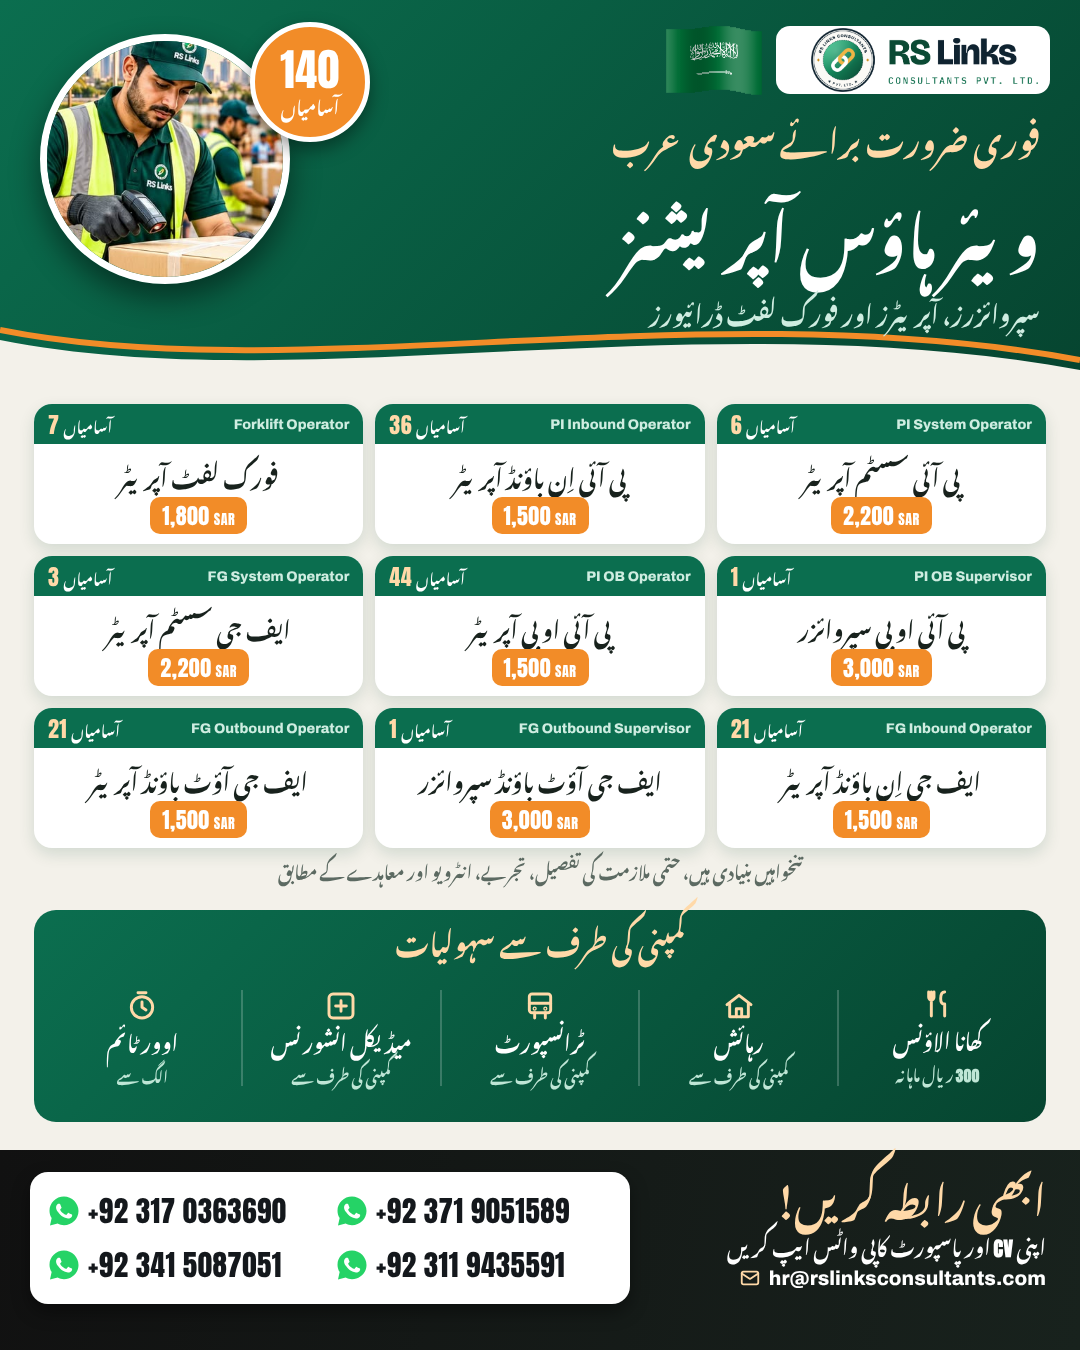
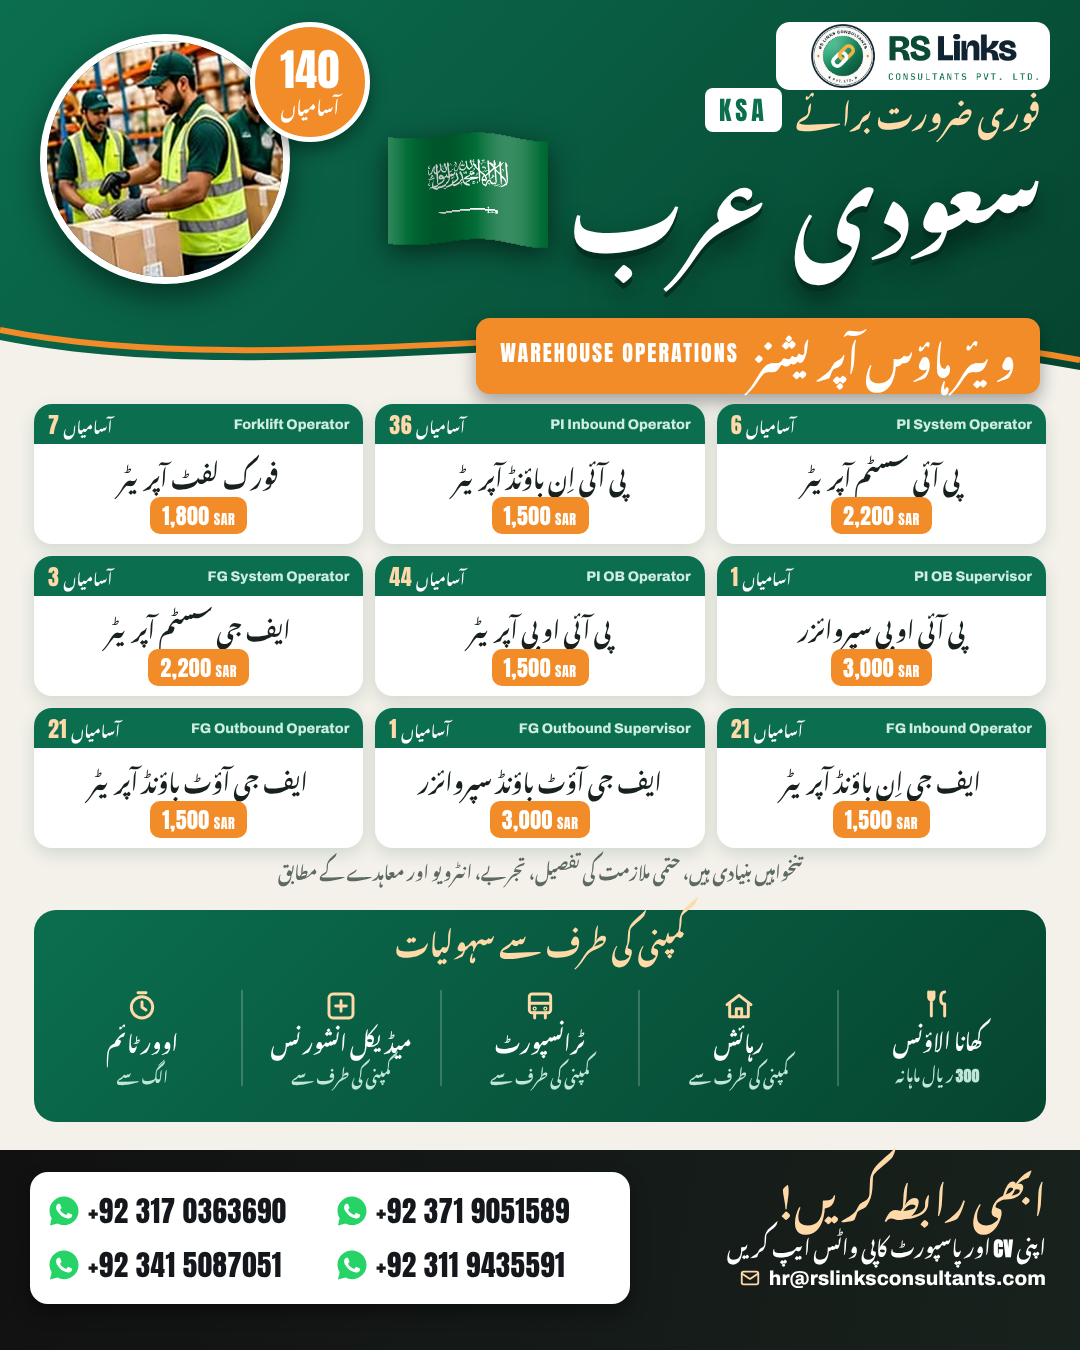
Warehouse ops 140 Urdu: team photo, prominent KSA title and flag
Claude-Session: https://claude.ai/code/session_01YJ5ofgU8QCiWTsYR9pvXG4

Changed region(s): [[0.3361, 0.0, 0.9778, 0.3111], [0.0306, 0.0311, 0.275, 0.2178]]

diff --git a/src/gulf_set.py b/src/gulf_set.py
@@ -207,14 +207,18 @@ def workforce_ur():
     body = f"""
 <div class='abs' style='top:0;left:0;width:1080px;height:370px;background:linear-gradient(135deg,{G},{G2})'></div>
 <svg class='abs' style='top:0;left:0' width='1080' height='400'><path d='M0 340 C 300 400, 700 300, 1080 370 L1080 400 L0 400Z' fill='{BG}'/><path d='M0 330 C 300 390, 700 290, 1080 360' stroke='{ORG}' stroke-width='6' fill='none'/></svg>
-<div class='abs' style='top:34px;left:40px;width:250px;height:250px;border-radius:50%;overflow:hidden;border:7px solid #fff;box-shadow:0 14px 30px #0007'>{img('rslinks_worker_hero.png', 'center 20%')}</div>
+<div class='abs' style='top:34px;left:40px;width:250px;height:250px;border-radius:50%;overflow:hidden;border:7px solid #fff;box-shadow:0 14px 30px #0007'>{img('rslinks_team_scan_x3.png', 'center 30%')}</div>
 <div class='abs' style='top:22px;left:250px;width:120px;height:120px;border-radius:50%;background:{ORG};border:5px solid #fff;display:flex;flex-direction:column;align-items:center;justify-content:center;box-shadow:0 8px 18px #0006'>
  <span class='num' style='font-size:44px;color:#fff;line-height:1'>140</span>{T('آسامیاں', 18, '#fff', 'font-weight:700', 1.5)}</div>
-<div class='abs' style='top:24px;right:30px;display:flex;align-items:center;gap:14px;direction:ltr'>{flag('saudi', 96, True, 'saw4')}<div style='background:#fff;border-radius:14px;padding:2px 12px'>{logo_img('logo-horizontal-light', 'width:250px;height:64px;object-position:right')}</div></div>
-<div class='abs' style='top:108px;right:40px;width:640px;text-align:right'>
- {T('فوری ضرورت برائے سعودی عرب', 32, '#FFD9A8', 'font-weight:700', 1.8)}
- {T('ویئر ہاؤس آپریشنز', 64, '#fff', 'font-weight:700;margin-top:4px;white-space:nowrap', 1.8)}
- {T('سپروائزرز، آپریٹرز اور فورک لفٹ ڈرائیورز', 24, '#CFEDE1', 'font-weight:700;margin-top:4px', 1.8)}</div>
+<div class='abs' style='top:22px;right:30px;background:#fff;border-radius:14px;padding:2px 12px'>{logo_img('logo-horizontal-light', 'width:250px;height:64px;object-position:right')}</div>
+<div class='abs' style='top:84px;right:40px;display:flex;align-items:center;gap:14px'>
+ {T('فوری ضرورت برائے', 30, '#FFD9A8', 'font-weight:700', 1.7)}
+ <span style='background:#fff;color:{G};font:400 26px Anton;letter-spacing:4px;padding:2px 14px;border-radius:8px'>KSA</span></div>
+<div class='abs' style='top:118px;right:40px;display:flex;align-items:center;gap:22px'>
+ {T('سعودی عرب', 92, '#fff', 'font-weight:700;white-space:nowrap;text-shadow:0 6px 0 #03301F,0 14px 26px #0008', 1.6)}
+ <div style='filter:drop-shadow(0 8px 14px #0008)'>{flag('saudi', 160, True, 'saw4')}</div></div>
+<div class='abs' style='top:318px;right:40px;background:{ORG};border-radius:14px;padding:0 24px 8px;box-shadow:0 8px 18px #0005;display:flex;align-items:center;gap:14px'>
+ {T('ویئر ہاؤس آپریشنز', 40, '#fff', 'font-weight:700;white-space:nowrap', 1.7)}<span style='font:400 22px Anton;color:#fff;letter-spacing:2px;direction:ltr'>WAREHOUSE OPERATIONS</span></div>
 
 <div class='abs' style='top:404px;left:34px;right:34px;display:grid;grid-template-columns:repeat(3,1fr);grid-auto-rows:140px;gap:12px'>{tiles}</div>
 <div class='abs' style='top:854px;left:34px;right:34px;text-align:center'>{T('تنخواہیں بنیادی ہیں، حتمی ملازمت کی تفصیل، تجربے، انٹرویو اور معاہدے کے مطابق', 17, '#5C6A62', 'font-weight:700', 1.8)}</div>
